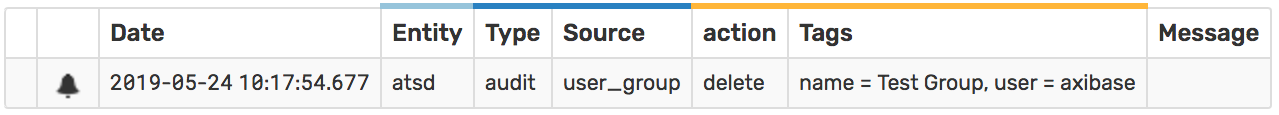
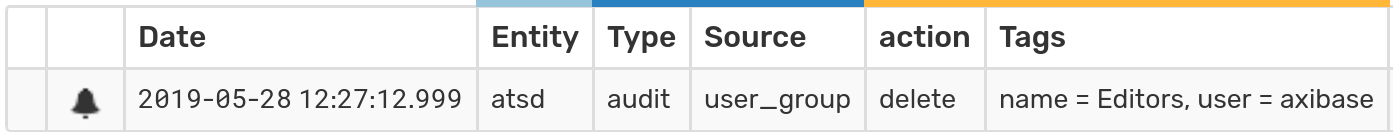
improvements

Changed region(s): [[0.0, 0.0, 1.0, 0.9391]]

diff --git a/integrations/it-infra/README.md b/integrations/it-infra/README.md
@@ -576,44 +576,40 @@ value < expiration_limit and value('http.ssl_certificate_status') != 5
 
 * CSV Parsers
 * Entity
+* Entity Group
 * Entity View
 * Export Job
 * Forecast Jobs
 * Named Collection
 * Metric
+* Outgoing Webhook
 * Portal
 * Replacement Table
 * Rule
-* Series
 * Scheduled SQL Queries
+* Tag Templates
 * User
 * User Group
 
-### Пример сообщения в лог при удалении
+### Примеры
 
-* Удаление **Series**
+Удаление группы пользователей **Editors**:
 
-```js
-2019-05-24 10:42:00,501;INFO;qtp2117132196-228;com.axibase.tsd.service.TimeSeriesDeleteServiceImpl;Starting series removal , series key 157:4,1=197,4=114
-```
+* сообщениe в лог при удалении
 
-### Пример message при удалении
+  ```js
+  2019-05-28 12:27:12,999;INFO;qtp543648248-214;com.axibase.tsd.service.admin.ActionAuditServiceImpl;Record type: USER_GROUP, name: Editors, action: delete, user: axibase
+  ```
 
-* Удаление **User Group**
+* message при удалении
 
   ![](././images/delete_user_group.png)
 
-* Удаление **Series**
-
-  ![](././images/delete_series.png)
-
-#### Пример уведомления по почте
-
-* Удаление **User Group**
+* уведомлениe по почте
 
   ![](./images/mail_notif_about_delete.png)
   
-##### Настройка правила
+#### Настройка правила для отправки уведомления
 
 1. Перeйдите на страницу **Alerts > Rules**, нажмите **New**.
 
